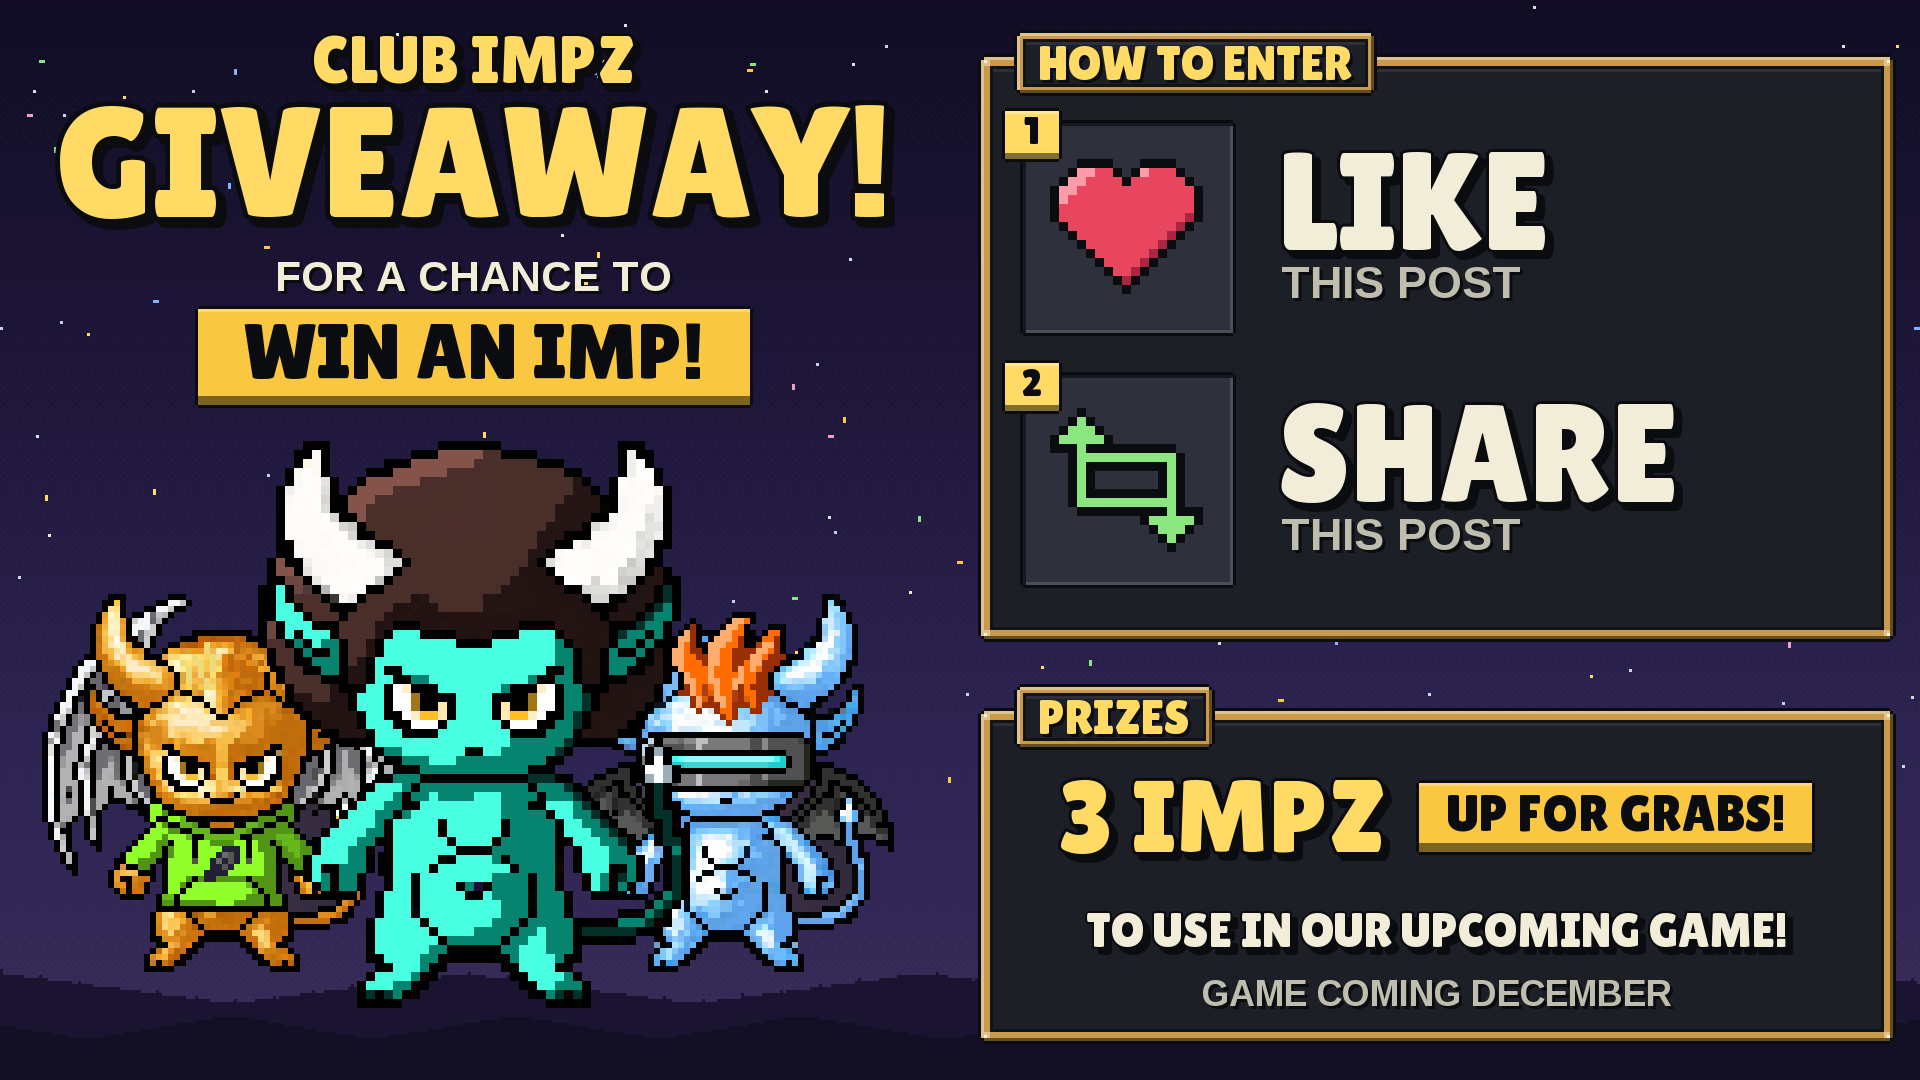
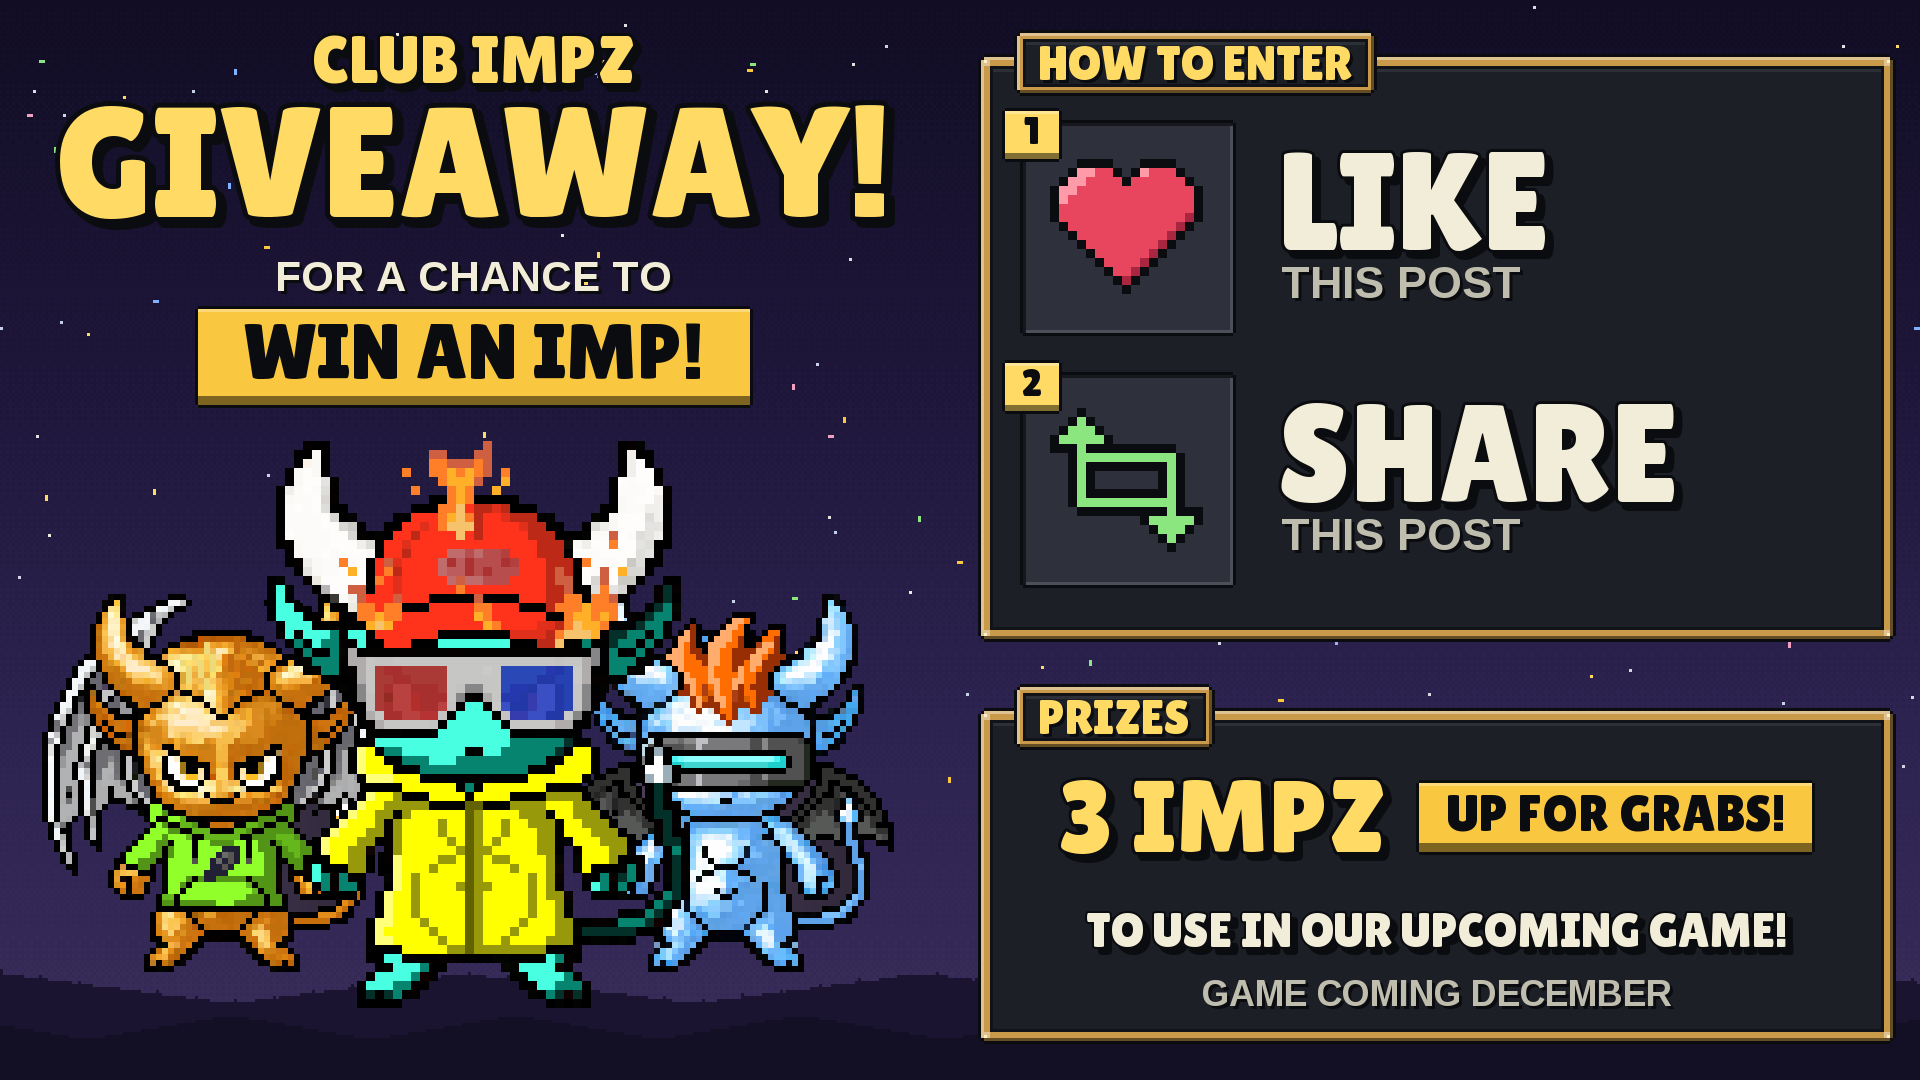
Giveaway poster: front Imp is #1885 in the MAYC Brim
The centre hero is now Imp #1885 (cyan, MAYC Brim, 3D glasses, waterproof coat), taken from the
collection picture and brought back to its 64 x 64 pixels before the x3.

Changed region(s): [[0.125, 0.3972, 0.375, 0.8861]]

diff --git a/tools/posters/giveaway_poster.py b/tools/posters/giveaway_poster.py
@@ -350,7 +350,12 @@ def cut_out(path):
 # the collection's own 2D pixel art, unchanged, keyed out of its purple background (x2 at the sides, x3 in front)
 paste(cut_out(BODIES / "body_gold_408.png"), LX + 2, 330 - 134, 2)
 paste(cut_out(BODIES / "body_diamond_158.png"), LX + LW - 130, 330 - 134, 2)
-paste(cut_out(BODIES / "body_cyan_111.png"), LX + LW // 2 - 96, 330 - 186, 3)
+# front: Imp #1885 in the MAYC Brim (J00BA, 2026-11-28). The collection picture is 640 x 640 (10x the 64 x 64 art), so
+# it is brought back to its 64 x 64 pixels before the x3, the same art as the docs/imp-traits/bodies files.
+MAYC = ROOT / "godot-game/assets/sprites/implingz_generations/1885.png"
+mayc64 = ROOT / "docs/images/posters/giveaway_imp_1885.png"
+Image.open(MAYC).convert("RGBA").resize((64, 64), Image.NEAREST).save(mayc64)
+paste(cut_out(mayc64), LX + LW // 2 - 96, 330 - 186, 3)
 
 
 # ---------------------------------------------------------------- right: how to enter
